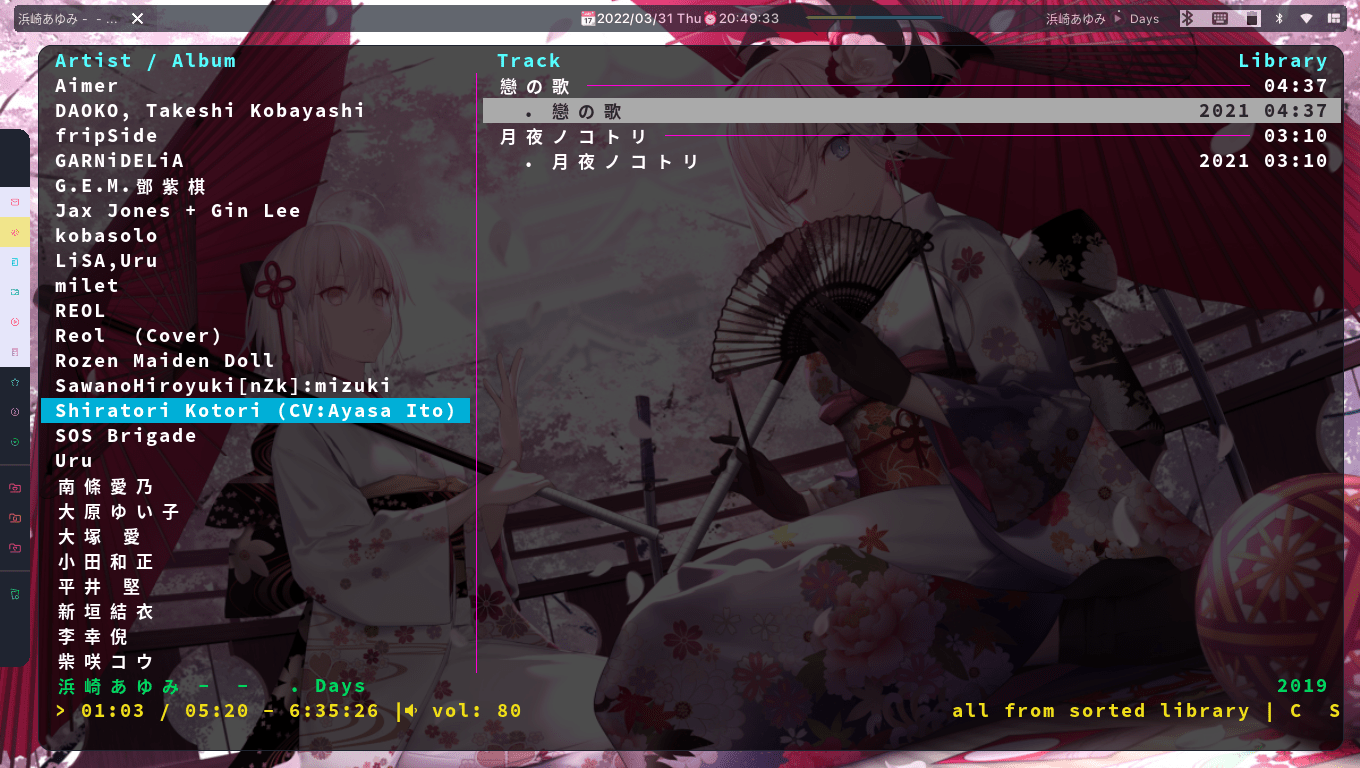
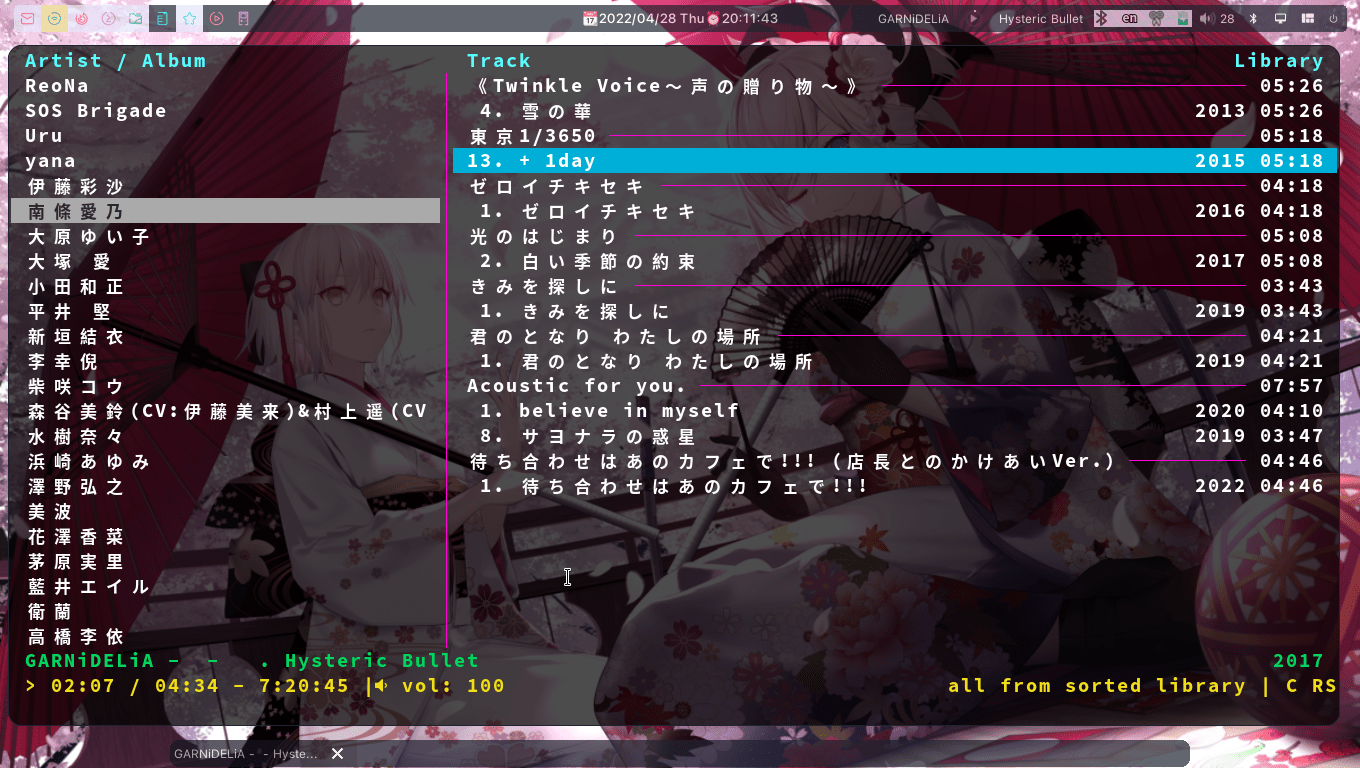
Update configs

diff --git a/README.md b/README.md
@@ -8,7 +8,7 @@
 
 # Credits [WillPower3309/awesome-dotfiles](https://github.com/WillPower3309/awesome-dotfiles).
 
-> Just do some change to meet my own needs.
+> Do much customization to meet my own needs.
 
 > Wallpaper is from [桜](https://www.pixiv.net/en/artworks/80518034).
 
@@ -38,30 +38,29 @@
 
 ## 2022/03/31 Added mpris-widget which can play or pause music by mouse. It can also go to next song or previous song by mouse scroll up or down, which depends on your setting. Also, it can show the artist and song name playing. (From [mpris-widget](https://github.com/streetturtle/awesome-wm-widgets/tree/master/mpris-widget))
 
-![](/screenshot/add-mpris-widget.png)
----
-
 ## 2022/04/09 Added volume-widget. From [volume-widget](https://github.com/streetturtle/awesome-wm-widgets/tree/master/volume-widget).
 
-![](/screenshot/volume-widget.png)
-Also, I have changed the left-panel for my habit changed.
- 
 ## 2022/04/16 Added Logout Menu Widget. From [Logout Menu Widget](https://github.com/streetturtle/awesome-wm-widgets/tree/master/logout-menu-widget).
 
 ![](/screenshot/logout-menu-widget.png)
+
 Also, I now use [papercolor-theme](https://github.com/NLKNguyen/papercolor-theme) for vim and neovim. I also use [ohmyzsh-battery.plugin.zsh](https://github.com/ohmyzsh/ohmyzsh/blob/master/plugins/battery/battery.plugin.zsh) to fix my terminal zsh prompt.
 
-![](/screenshot/zsh-prompt.png)
-I change the default icon when charging. 
 
 ![](/screenshot/man.png)
 I have also changed the pager for `man`. Now I use `vim` as pager. You can check my `.zshrc` for the setting. More details or tutorial from [Using Vim as $MANPAGER](https://zameermanji.com/blog/2012/12/30/using-vim-as-manpager/), [A faster Vim, for a better manpager](https://kgrz.io/faster-vim-better-manpager.html), [5 cool terminal pagers in Fedora](https://fedoramagazine.org/5-cool-terminal-pagers-in-fedora/). If you need, take a look.
+
+## 2022/04/28 Removed left-panel. Added bottom-panel and changed top-panel.
+
+![](/screenshot/newlayout.png)
+
+
 
 ---
 
 ### I also add more volume bar icon when the volume is over 80%, 60%, 40%, 20%, 0% and 0%. And I use the icon from [Flaticon](https://www.flaticon.com/).
 - If you don't like that, you can change it by yourself.
-- Put the icon you like in **icons/volume/pastel**, then change the **volume-adjust.lua** if you use different name of your icon. Here is the original source below.
+- Put the icon you like in **icons/volume/pastel**, then change the **volume-adjust2.lua** if you use different name of your icon. Here is the original source below.
 > <a href="https://www.flaticon.com/free-icons/volume-down" title="volume down icons">Volume down icons created by Freepik - Flaticon</a>
 
 > <a href="https://www.flaticon.com/free-icons/sound" title="sound icons">Sound icons created by Freepik - Flaticon</a>
